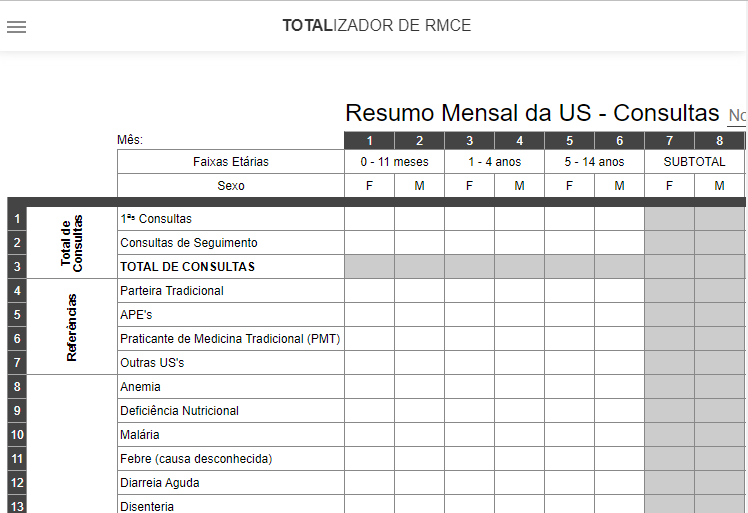
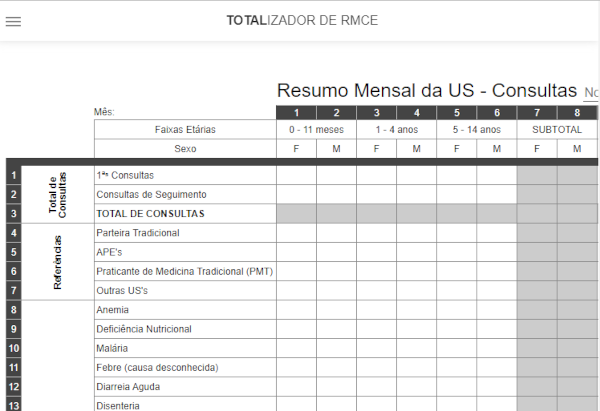
29o commit
Redimensionei a prévia e adicionei algumas metatags de compartilhamento.

diff --git a/totalizador-de-resumo-mensal-de-consultas-externas.html b/totalizador-de-resumo-mensal-de-consultas-externas.html
@@ -13,11 +13,16 @@
 
     <!-- PARTILHA NAS REDES SOCIAIS -->
     <meta property="og:url" content="https://www.quinamine.github.io/relatoriosclinicos/totalizador-de-resumo-mensal-de-consultas-externas.html" />
-    <meta property="og:type" content="website" />
-    <meta property="og:site_name" content="Totalizador de RMCE" />
-    <meta property="og:title" content="Totalizador de Resumo Mensal de Consultas Externas" />
+
+    <meta property="og:title" content="Totalizador de Resumo Mensal de Consultas Externas" >
+    
     <meta property="og:description" content="Auxilia na elaboração de resumo de consultas externas totalizado-o automaticamente com base nos dados inseridos. Foi desenvolvido baseando-se no mesmo modelo da ficha actualmente em vigor no Serviço Nacional de Saúde." />
+
     <meta property="og:image" content="https://www.quinamine.github.io/relatoriosclinicos/previa/previa.png" />
+    <meta property="og:image:secure_url" content="https://www.quinamine.github.io/relatoriosclinicos/previa/previa.png" />
+    <meta property="og:image:type" content="image/png" />
+    <meta property="og:image:width" content="600" />
+    <meta property="og:image:height" content="401" />
 
     <!-- DESIGN -->
     <link rel="shortcut icon" href="favicon.ico" type="image/x-icon" />
